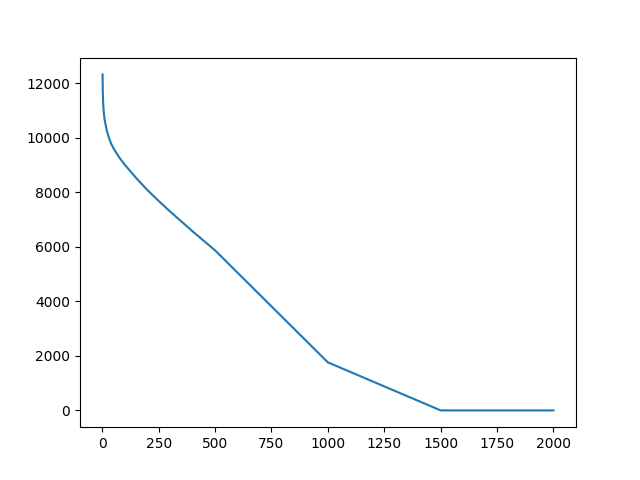
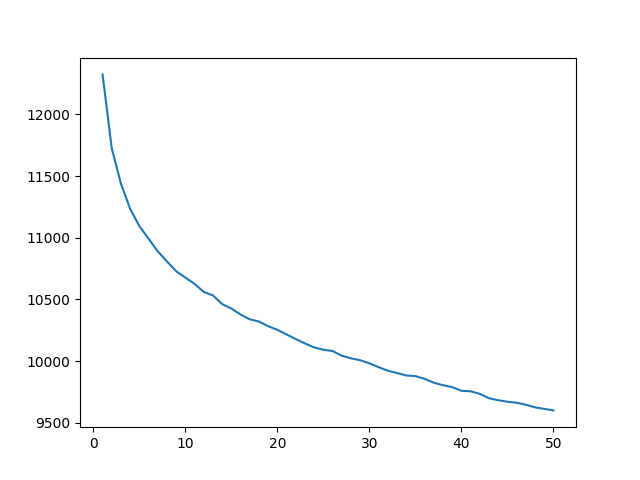
graph

diff --git a/main.py b/main.py
@@ -19,8 +19,6 @@ def vocabulaire(N, chemins, fichier=None, methode = "kmeans"):
     if methode == "kmeans":
         array = np.concatenate(listdesc)
         kmeans = sklearn.cluster.KMeans(N).fit(array)
-        kmeans.cluster_centers_
-        kmeans.labels_
         max = 0
 
         for desc in listdesc:
@@ -38,7 +36,7 @@ def vocabulaire(N, chemins, fichier=None, methode = "kmeans"):
     return kmeans.inertia_/N, max
 
 def coude():
-    N = [1,2,3,4,5,6,7,8,9,10,20,30,40,50,75,100,150,200,250,300,400,500,1000,1500,2000]
+    N= [1,2,3,4,5,6,7,8,9,10,11,12,13,14,15,16,17,18,19,20,21,22,23,24,25,26,27,28,29,30,31,32,33,34,35,36,37,38,39,40,41,42,43,44,45,46,47,48,49,50]
     inertie = []
     max = []
     for n in N:
